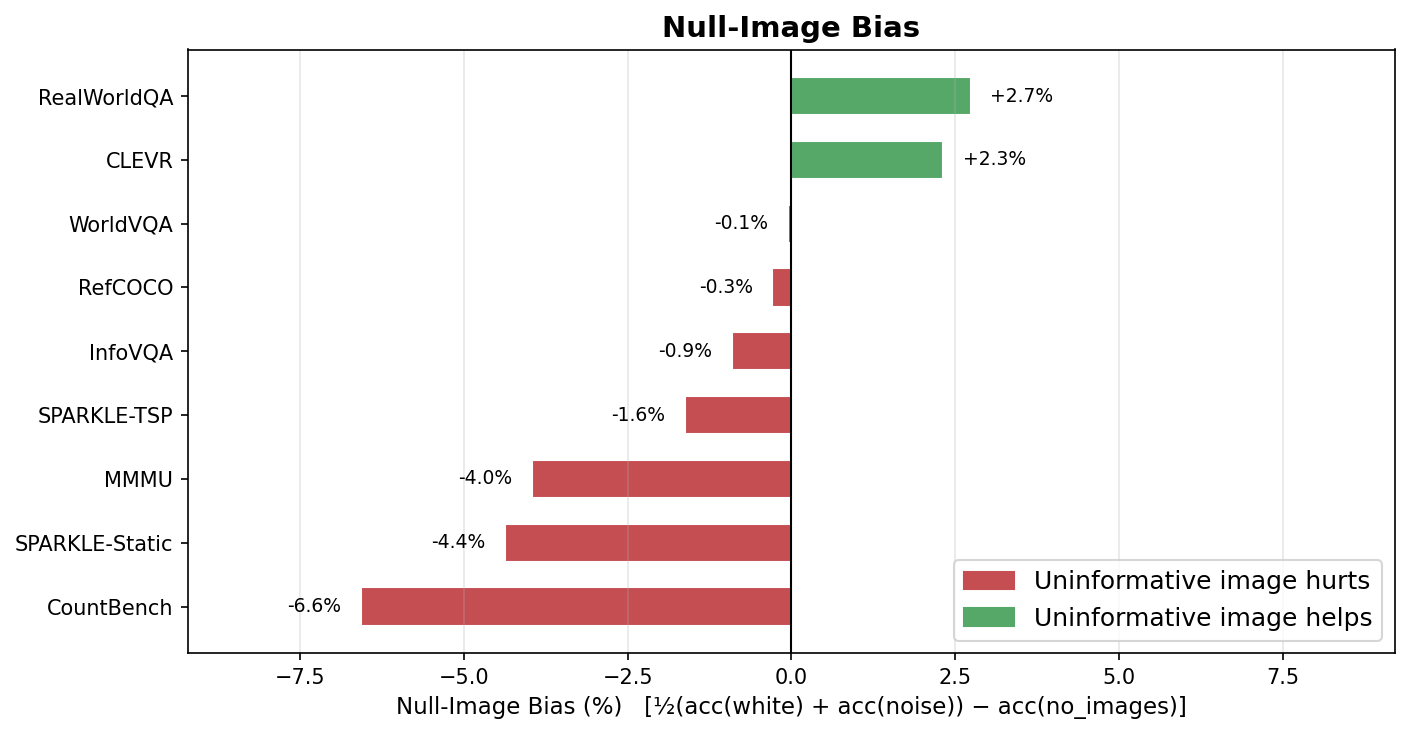
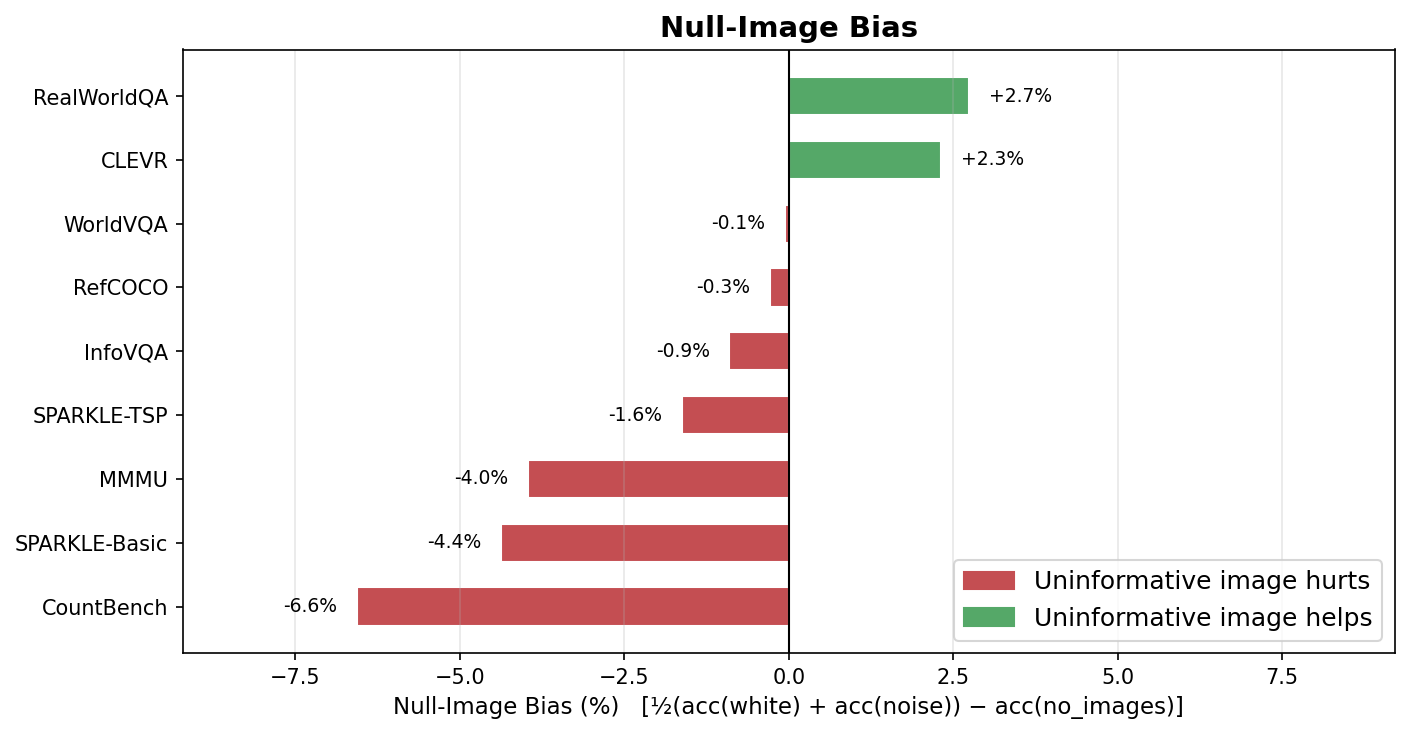
Rename SPARKLE-Static to SPARKLE-Basic; refresh figures

diff --git a/index.html b/index.html
@@ -745,8 +745,8 @@ pre.bibtex{
   </div>
 
   <div class="bench-card">
-    <img class="bench-thumb" src="bench/thumb/sparkle_static.jpg" alt="SPARKLE-Static: a synthetic scene of labelled nodes.">
-    <div class="bench-body"><div class="bench-name">SPARKLE-Static</div>
+    <img class="bench-thumb" src="bench/thumb/sparkle_static.jpg" alt="SPARKLE-Basic: a synthetic scene of labelled nodes.">
+    <div class="bench-body"><div class="bench-name">SPARKLE-Basic</div>
     <div class="bench-q">Q: Which distance is the shortest: N4&ndash;N5, N4&ndash;N2, or N5&ndash;N2?</div></div>
   </div>
 
@@ -935,7 +935,7 @@ Practical judge-trust recipe — for every (model, dataset, mode) cell, log: loc
   <figcaption><em>Figure 1. Benchmark taxonomy: image contribution vs Caption Substitution. Each point is one benchmark, averaged across the 8 open-weight VLMs. X-axis: image contribution. Y-axis: Caption Substitution. The dashed line at <code>y = 1</code> separates benchmarks where captions partially substitute for the image (below) from those where captions outperform the image (above).</em></figcaption>
 </figure>
 
-<p>Two patterns stand out. Along the <strong>Caption Substitution</strong> axis, six of the nine benchmarks (MMMU, WorldVQA, CountBench, InfoVQA, RefCOCO, and SPARKLE-Static) have a Caption Substitution value of roughly 0.85 or higher, meaning that a static caption recovers most or all of the model&rsquo;s image gain. The effect is largest on MMMU, where the value of 1.72 reflects captions outperforming the original image by 2.8%. Along the <strong>Image Contribution</strong> axis, four benchmarks (RealWorldQA (&minus;0.6%), SPARKLE-TSP (+2.5%), MMMU (+3.9%), and WorldVQA (+6.4%)) show negligible improvement over a no-image baseline. These observations are consistent with prior work such as <a href="https://arxiv.org/abs/2403.20330">MMStar</a> and <a href="https://arxiv.org/abs/2603.21687">MIRAGE</a>.</p>
+<p>Two patterns stand out. Along the <strong>Caption Substitution</strong> axis, six of the nine benchmarks (MMMU, WorldVQA, CountBench, InfoVQA, RefCOCO, and SPARKLE-Basic) have a Caption Substitution value of roughly 0.85 or higher, meaning that a static caption recovers most or all of the model&rsquo;s image gain. The effect is largest on MMMU, where the value of 1.72 reflects captions outperforming the original image by 2.8%. Along the <strong>Image Contribution</strong> axis, four benchmarks (RealWorldQA (&minus;0.6%), SPARKLE-TSP (+2.5%), MMMU (+3.9%), and WorldVQA (+6.4%)) show negligible improvement over a no-image baseline. These observations are consistent with prior work such as <a href="https://arxiv.org/abs/2403.20330">MMStar</a> and <a href="https://arxiv.org/abs/2603.21687">MIRAGE</a>.</p>
 
 <p>We take a useful multimodal benchmark to be one whose Image Contribution is non-trivially positive: if accuracy does not rise when the image is provided, then a model&rsquo;s correct answers cannot be credited to visual reasoning in the first place. Among the benchmarks that pass this bar, Caption Substitution then the types of visual content being tested. Tasks that lean on relational or spatial structure, where short text descriptions cannot disambiguate the referent, such as CLEVR (Caption Substitution = 0.51). On the other hand, tasks whose images are text-heavy or contain content that captions can loselessly transcribe, such as text as in CountBench, InfoVQA, and RefCOCO (all near 0.87&ndash;0.88), we observe that the performances are nearly identical.</p>
 
@@ -984,7 +984,7 @@ Practical judge-trust recipe — for every (model, dataset, mode) cell, log: loc
   <text x="201.0" y="64" text-anchor="middle" font-size="12.5" fill="var(--ink)">WorldVQA</text>
   <line x1="169.2" y1="117.0" x2="169.2" y2="136" stroke="#76b7b2" stroke-width="1.6" opacity="0.65"/>
   <circle cx="169.2" cy="112" r="5.5" fill="#76b7b2" stroke="var(--bg)" stroke-width="1.5"/>
-  <text x="141.2" y="146" text-anchor="middle" font-size="12.5" fill="var(--ink)">SPARKLE-Static</text>
+  <text x="141.2" y="146" text-anchor="middle" font-size="12.5" fill="var(--ink)">SPARKLE-Basic</text>
   <line x1="236.8" y1="107.0" x2="236.8" y2="45" stroke="#b07aa1" stroke-width="1.6" opacity="0.65"/>
   <circle cx="236.8" cy="112" r="5.5" fill="#b07aa1" stroke="var(--bg)" stroke-width="1.5"/>
   <text x="252.8" y="40" text-anchor="middle" font-size="12.5" fill="var(--ink)">SPARKLE-TSP</text>